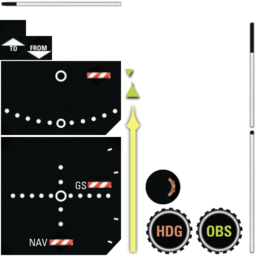
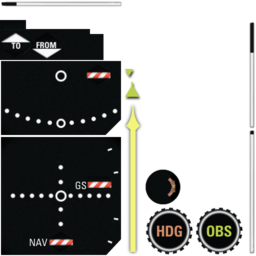
Bitmaps calibration. SSR support.

Changed region(s): [[0.0, 0.0938, 0.4062, 0.25]]

diff --git a/FlightGearMap/src/com/juanvvc/flightgear/panels/CommsPanel.java b/FlightGearMap/src/com/juanvvc/flightgear/panels/CommsPanel.java
@@ -238,7 +238,7 @@ public class CommsPanel extends Activity implements OnClickListener {
 		case R.id.dme:
 			if (this.selectedEditText > 0) {
 				// deselect currently selected edittext
-				this.findViewById(this.selectedEditText).setBackgroundColor(Color.GRAY);
+				this.findViewById(this.selectedEditText).setBackgroundColor(Color.TRANSPARENT);
 			}
 			// select the new one
 			this.selectedEditText = v.getId();
@@ -265,7 +265,7 @@ public class CommsPanel extends Activity implements OnClickListener {
 				et = (TextView) this.findViewById(this.selectedEditText);
 				et.setText(et.getText().toString() + ((Button) v).getText().toString());
 				synchronized(this.changedfreqs) {
-					changedfreqs.add(v.getId());
+					changedfreqs.add(this.selectedEditText);
 				}
 			} // if button pressed but no selected edittext, do nothing
 			break;
@@ -331,21 +331,21 @@ public class CommsPanel extends Activity implements OnClickListener {
 			firstMessage = true;
 			// call a progress update to show the first message
 			try{
-				freqs[0] = conn.getFloat("/instrumentation/comm/frequencies/selected-mhz");
-				freqs[1] = conn.getFloat("/instrumentation/comm[1]/frequencies/selected-mhz");
-				freqs[2] = conn.getFloat("/instrumentation/nav/frequencies/selected-mhz");
-				freqs[3] = conn.getFloat("/instrumentation/nav[1]/frequencies/selected-mhz");
-				freqs[4] = conn.getFloat("/instrumentation/adf/frequencies/selected-khz");
-				freqs[5] = conn.getFloat("/instrumentation/dme/frequencies/selected-mhz");
-				freqs[6] = conn.getFloat("/instrumentation/comm/frequencies/standby-mhz");
-				freqs[7] = conn.getFloat("/instrumentation/comm[1]/frequencies/standby-mhz");
-				freqs[8] = conn.getFloat("/instrumentation/nav/frequencies/standby-mhz");
-				freqs[9] = conn.getFloat("/instrumentation/nav[1]/frequencies/standby-mhz");
-				freqs[10] = conn.getFloat("/instrumentation/adf/frequencies/standby-khz");
-				freqs[11] = conn.getFloat("/instrumentation/nav/radials/selected-deg");
-				freqs[12] = conn.getFloat("/instrumentation/nav[1]/radials/selected-deg");
-				freqs[13] = conn.getFloat("/instrumentation/adf/rotation-deg");
-				freqs[14] = conn.getFloat("/instrumentation/adf/rotation-deg"); // TODO
+				freqs[0] = conn.getFloat("/instrumentation/comm/frequencies/selected-mhz", 0f);
+				freqs[1] = conn.getFloat("/instrumentation/comm[1]/frequencies/selected-mhz", 0f);
+				freqs[2] = conn.getFloat("/instrumentation/nav/frequencies/selected-mhz", 0f);
+				freqs[3] = conn.getFloat("/instrumentation/nav[1]/frequencies/selected-mhz", 0f);
+				freqs[4] = conn.getFloat("/instrumentation/adf/frequencies/selected-khz", 0f);
+				freqs[5] = conn.getFloat("/instrumentation/dme/frequencies/selected-mhz", 0f);
+				freqs[6] = conn.getFloat("/instrumentation/comm/frequencies/standby-mhz", 0f);
+				freqs[7] = conn.getFloat("/instrumentation/comm[1]/frequencies/standby-mhz", 0f);
+				freqs[8] = conn.getFloat("/instrumentation/nav/frequencies/standby-mhz", 0f);
+				freqs[9] = conn.getFloat("/instrumentation/nav[1]/frequencies/standby-mhz", 0f);
+				freqs[10] = conn.getFloat("/instrumentation/adf/frequencies/standby-khz", 0f);
+				freqs[11] = conn.getFloat("/instrumentation/nav/radials/selected-deg", 0f);
+				freqs[12] = conn.getFloat("/instrumentation/nav[1]/radials/selected-deg", 0f);
+				freqs[13] = conn.getFloat("/instrumentation/adf/rotation-deg", 0f);
+				freqs[14] = conn.getInt("/instrumentation/transponder/id-code", 7500); // 7500==hijack!
 				this.publishProgress((PlaneData)null);
 			} catch (IOException e) {
 				return "Couldn't read frequencies";
@@ -394,27 +394,27 @@ public class CommsPanel extends Activity implements OnClickListener {
 								break;
 							case R.id.dme:
 								prop = "/instrumentation/dme/frequencies/selected-mhz";
-								value = Float.parseFloat(((EditText) CommsPanel.this.findViewById(R.id.dme)).getText().toString());
+								value = Float.parseFloat(((TextView) CommsPanel.this.findViewById(R.id.dme)).getText().toString());
 								prop2 = null;
 								break;
 							case R.id.nav1rad:
 								prop = "/instrumentation/nav/radials/selected-deg";
-								value = Float.parseFloat(((EditText) CommsPanel.this.findViewById(R.id.nav1rad)).getText().toString());
+								value = Float.parseFloat(((TextView) CommsPanel.this.findViewById(R.id.nav1rad)).getText().toString());
 								prop2 = null;
 								break;
 							case R.id.nav2rad:
 								prop = "/instrumentation/nav[1]/radials/selected-deg";
-								value = Float.parseFloat(((EditText) CommsPanel.this.findViewById(R.id.nav2rad)).getText().toString());
+								value = Float.parseFloat(((TextView) CommsPanel.this.findViewById(R.id.nav2rad)).getText().toString());
 								prop2 = null;
 								break;
 							case R.id.adfrad:
 								prop = "/instrumentation/adf/rotation-deg";
-								value = Float.parseFloat(((EditText) CommsPanel.this.findViewById(R.id.adfrad)).getText().toString());
+								value = Float.parseFloat(((TextView) CommsPanel.this.findViewById(R.id.adfrad)).getText().toString());
 								prop2 = null;
 								break;
 							case R.id.ssr:
-								prop = "/instrumentation/adf/rotation-deg"; // TODO
-								value = Float.parseFloat(((EditText) CommsPanel.this.findViewById(R.id.ssr)).getText().toString());
+								prop = "/instrumentation/transponder/id-code";
+								value = Float.parseFloat(((TextView) CommsPanel.this.findViewById(R.id.ssr)).getText().toString());
 								prop2 = null;
 								break;
 							default:
@@ -463,22 +463,22 @@ public class CommsPanel extends Activity implements OnClickListener {
 			if (firstMessage && conn!= null) {
 				Toast.makeText(CommsPanel.this,	getString(R.string.conn_established), Toast.LENGTH_LONG).show();
 				firstMessage = false;
-				//Update messages
+				//Update messages (remember: an EditText is a TextView also!)
 				((TextView) findViewById(R.id.com1)).setText(Float.toString(freqs[0]));
 				((TextView) findViewById(R.id.com2)).setText(Float.toString(freqs[1]));
 				((TextView) findViewById(R.id.nav1)).setText(Float.toString(freqs[2]));
 				((TextView) findViewById(R.id.nav2)).setText(Float.toString(freqs[3]));
 				((TextView) findViewById(R.id.adf)).setText(Float.toString(freqs[4]));
-				((EditText) findViewById(R.id.dme)).setText(Float.toString(freqs[5]));
+				((TextView) findViewById(R.id.dme)).setText(Float.toString(freqs[5]));
 				((TextView) findViewById(R.id.com1stb)).setText(Float.toString(freqs[6]));
 				((TextView) findViewById(R.id.com2stb)).setText(Float.toString(freqs[7]));
 				((TextView) findViewById(R.id.nav1stb)).setText(Float.toString(freqs[8]));
 				((TextView) findViewById(R.id.nav2stb)).setText(Float.toString(freqs[9]));
 				((TextView) findViewById(R.id.adfstb)).setText(Float.toString(freqs[10]));
-				((EditText) findViewById(R.id.nav1rad)).setText(Float.toString(freqs[11]));
-				((EditText) findViewById(R.id.nav2rad)).setText(Float.toString(freqs[12]));
-				((EditText) findViewById(R.id.adfrad)).setText(Float.toString(freqs[13]));
-				((EditText) findViewById(R.id.ssr)).setText(Float.toString(freqs[14]));
+				((TextView) findViewById(R.id.nav1rad)).setText(Float.toString(freqs[11]));
+				((TextView) findViewById(R.id.nav2rad)).setText(Float.toString(freqs[12]));
+				((TextView) findViewById(R.id.adfrad)).setText(Float.toString(freqs[13]));
+				((TextView) findViewById(R.id.ssr)).setText(Float.toString(freqs[14]));
 				
 				// freqs array is not used any more
 				freqs = null;

diff --git a/FlightGearMap/src/com/juanvvc/flightgear/panels/Cessna172.java b/FlightGearMap/src/com/juanvvc/flightgear/panels/Cessna172.java
@@ -29,7 +29,7 @@ public class Cessna172 {
 		MyBitmap hand3 = new MyBitmap("misc2.png", 4, 200, 140, 24); // used in small instruments
 		MyBitmap hand5 = new MyBitmap("nav4.png", 496, 258, 16, 244); // NAV1 and NAV2
 		MyBitmap headings = new MyBitmap("nav2.png", -1, -1, -1, -1);
-		MyBitmap fromto = new MyBitmap("nav4.png", 0, 70, 100, 50);
+		MyBitmap fromto = new MyBitmap("nav4.png", 0, 58, 183, 64);
 		MyBitmap switches = new MyBitmap("switches.png", -1, -1, -1, -1);
 		
 		switch (type) {
@@ -67,7 +67,7 @@ public class Cessna172 {
 					new StaticSurface(new MyBitmap("nav3.png", 0, 190, 320, 320), 256-160, 256-160),
 					new StaticSurface(new MyBitmap("nav4.png", 0, 122, 244, 148), 256-122, 256-30),
 					new CalibratableRotateSurface(new MyBitmap("nav2.png", -1, -1, -1, -1), 0, 0, "/instrumentation/nav[1]/radials/selected-deg", true, -1, 256, 256, 0, 0, 360, -360),
-					new C172FromToGSSurface(fromto, 310, 210, PlaneData.NAV2_TO, PlaneData.NAV2_FROM, -1),
+					new C172FromToGSSurface(fromto, 304, 220, PlaneData.NAV2_TO, PlaneData.NAV2_FROM, -1),
 					new RotateSurface(hand5, 245, 120, PlaneData.NAV2_DEFLECTION, 1, 256, 120, -10, 25, 10, -25),
 					new StaticSurface(new MyBitmap("nav1.png", -1, -1, -1, -1), 0, 0)
 				});
@@ -121,8 +121,8 @@ public class Cessna172 {
 		case TRIMFLAPS:
 			return new Instrument(col, row, context, new Surface[] {
 					new StaticSurface(new MyBitmap("trimflaps.png", -1, -1, -1, -1), 65, 10),
-					new SlippingSurface(hand3, 180, PlaneData.ELEV_TRIM, -1, 220, 394, 1, 220, 26),
-					new SlippingSurface(hand3, 0, PlaneData.FLAPS, 0, 260, 66, 1, 260, 434)
+					new SlippingSurface(hand3, 180, PlaneData.ELEV_TRIM, -1, 220, 430, 1, 220, 65),
+					new SlippingSurface(hand3, 0, PlaneData.FLAPS, 0, 230, 30, 1, 230, 400)
 				});
 		case SWITCHES:
 			return new Instrument(col, row, context, new Surface[] {

diff --git a/FlightGearMap/src/com/juanvvc/flightgear/FGFSConnection.java b/FlightGearMap/src/com/juanvvc/flightgear/FGFSConnection.java
@@ -189,10 +189,14 @@ public class FGFSConnection
   * @return The property value as an int.
   * @see #get(String)
   */
- public int getInt (String name)
+ public int getInt (String name, int def)
 	throws IOException
  {
+	 try{
 	return Integer.parseInt(get(name));
+	 } catch (NumberFormatException e) {
+		 return def;
+	 }
  }
 
 
@@ -203,10 +207,14 @@ public class FGFSConnection
   * @return The property value as a long.
   * @see #get(String)
   */
- public long getLong (String name)
+ public long getLong (String name, long def)
 	throws IOException
  {
+	 try {
 	return Long.parseLong(get(name));
+	 } catch (NumberFormatException e) {
+		 return def;
+	 }
  }
 
 
@@ -214,13 +222,18 @@ public class FGFSConnection
   * Get a property value as a float.
   *
   * @param name The property name to look up.
+  * @param def The default value if the number cannot be converted.
   * @return The property value as a float.
   * @see #get(String)
   */
- public float getFloat (String name)
+ public float getFloat (String name, float def)
 	throws IOException
  {
-	return Float.parseFloat(get(name));
+	 try {
+		 return Float.parseFloat(get(name));
+	 } catch (NumberFormatException e) {
+		 return def;
+	 }
  }
 
 
@@ -231,10 +244,14 @@ public class FGFSConnection
   * @return The property value as a double.
   * @see #get(String)
   */
- public double getDouble (String name)
+ public double getDouble (String name, double def)
 	throws IOException
  {
+	 try{
 	return Double.parseDouble(get(name));
+	 } catch (NumberFormatException e) {
+		 return def;
+	 }
  }
 
 

diff --git a/FlightGearMap/src/com/juanvvc/flightgear/instruments/CalibratableRotateSurface.java b/FlightGearMap/src/com/juanvvc/flightgear/instruments/CalibratableRotateSurface.java
@@ -211,7 +211,7 @@ public class CalibratableRotateSurface extends Surface {
 		// if our value is not dirty, read from the remote fgfs
 		if (!dirtyValue || firstRead) {
 			try {
-				value = conn.getFloat(prop);
+				value = conn.getFloat(prop, 0f);
 				firstRead = false;
 			} catch (NumberFormatException e) {
 				MyLog.e(this, prop + ": " + e.toString());
